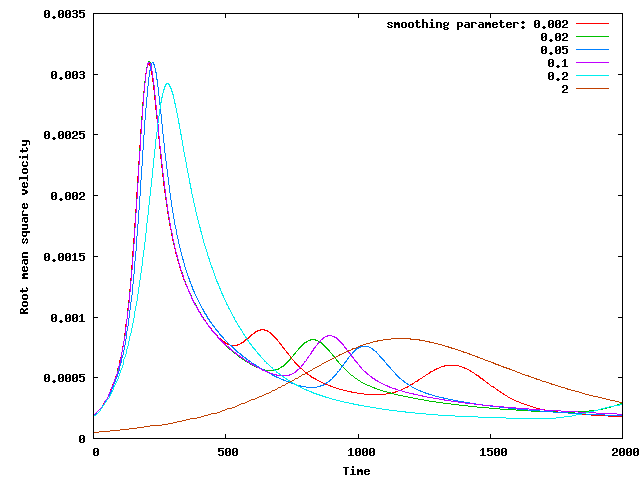
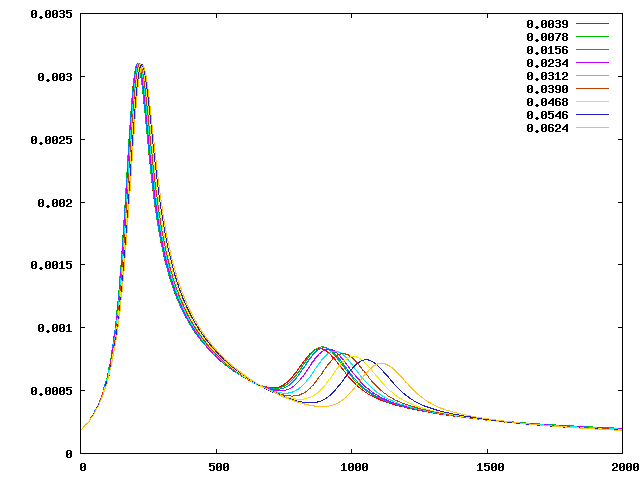
Van Keken manual update v2

diff --git a/doc/manual/manual.tex b/doc/manual/manual.tex
@@ -6153,7 +6153,7 @@ the current directory.
 \label{sec:benchmark-van-keken}
 
 \textit{This section is a co-production of Cedric Thieulot, Juliane Dannberg,
-Timo Heister and Wolfgang Bangerth.}
+Timo Heister and Wolfgang Bangerth with an extension to this benchmark provided by the Virginia Tech Dept. of Geosciences class Geodynamics and ASPECT co-taught by Scott King and D. Sarah Stamps.}
 
 One of the most widely used benchmarks for mantle convection codes is the
 isoviscous Rayleigh-Taylor case (``case 1a'') published by van Keken \textit{et
@@ -6313,39 +6313,57 @@ this half width parameter proportional to the mesh size and thereby get more
 accurate results. The point of the section was to demonstrate the reason
 for the lack of convergence.
 
-\textit{This section contributed by Grant Euen, Tahiry Rajaonarison, and Shangxin Liu as part of the Geodynamics and ASPECT class at Virginia Tech}\\
-
 In this section we extend the Van Keken cookbook following up the work previously completed by Cedric Thieulot, Juliane Dannberg,
-Timo Heister and Wolfgang Bangerth.
+Timo Heister and Wolfgang Bangerth.  \textit{This section contributed by Grant Euen, Tahiry Rajaonarison, and Shangxin Liu as part of the Geodynamics and ASPECT class at Virginia Tech.}  
 
-The smooth model allows for much better convergence of secondary plumes, although they are still more scattered than the primary plumes.  The convergence of the secondary and tertiary plumes can be better constrained by altering the smoothing parameter.  This term controls how much of the problem is smoothed over: as the parameter is increased, the smoothed boundary grows and vice versa.  As the smoothed boundary shrinks it becomes sharper until the original discontinuous behavior is revealed.  As it grows the two layers eventually become one large transitioning layer rather than two distinct layers and a boundary.  The overall effect is that the secondary and tertiary plumes rise at different times based on these conditions.  In general, as the smoothing parameter is decreased, the smoothed boundary shrinks, and the plumes rise more quickly.  As it is increased, the boundary grows, and the plumes rise more slowly.  This trend can be used to force a much more accurate convergence from the secondary plumes. Testing different sizes of the smoothing parameter using refinement degree 7 (128$\times$128 mesh size) produces the images shown in Fig.~\ref{fig:vk-5}.  We use refinement degree 7 because the root mean square velocity converges at greater refinement degree while keeping average runtime very low.
+As already mentioned above, using a half width parameter proportional to the mesh size allows for more accurate results.  We test the effect of the half width size of the smoothed discontinuity by changing the division by 0.02, the smoothing parameter, in the formula for the smoothed initial conditions into values proportional to the mesh size.  We use global refinement degree 7 because the root mean square velocity converges at greater refinement degree while keeping average runtime around 5 to 25 minutes.  These runtimes were produced by the BlueRidge cluster of the Advanced Research Computing (ARC) program at Virginia Tech.  BlueRidge is a 408-node Cray CS-300 cluster; each node outfitted with two octa-core Intel Sandy Bridge CPUs and 64 GB of memory.  A chart of average runtimes for global mesh refinements 5 through 10 on one node can be seen in Table~\ref{tab:runtime-table}.  For global refinement degree 7 (128$\times$128 mesh size), the size of the mesh is 0.0078 corresponding to a half width parameter of 0.0039.  The smooth model allows for much better convergence of the secondary plumes, although they are still more scattered than the primary plumes.
+
+\begin{table}[htb]
+	\center
+	\begin{tabular}{|c|cccccc|}
+		\hline
+		Global & & Number of Processors & & \\
+		Refinements & 4 & 8 & 12 & 16
+		\\ \hline
+		5 & 28.1 seconds & 19.8 seconds & 19.6 seconds & 17.1 seconds \\
+		6 & 3.07 minutes & 1.95 minutes & 1.49 minutes & 1.21 minutes \\
+		7 & 23.33 minutes & 13.92 minutes & 9.87 minutes & 7.33 minutes \\
+		8 & 3.08 hours & 1.83 hours & 1.30 hours & 56.33 minutes \\
+		9 & 1.03 days & 15.39 hours & 10.44 hours & 7.53 hours \\
+		10 & More than 6 days & More than 6 days & 3.39 days & 2.56 days \\ \hline
+	\end{tabular}
+	\caption{\it Average runtimes for the Van Keken Benchmark with smoothed initial conditions.  All of these tests used different numbers of processors on one node on the BlueRidge cluster of ARC at Virginia Tech.}
+	\label{tab:runtime-table}
+\end{table}
+
+This convergence is due to changing the smoothing parameter, which controls how much of the problem is smoothed over.  As the parameter is increased. the smoothed boundary grows and vice versa.  As the smoothed boundary shrinks it becomes sharper until the original discontinuous behavior is revealed.  As it grows, the two layers eventually become one large, transitioning layer rather than two distinct layers separated by a boundary.  These effects can be seen in Fig.~\ref{fig:vk-5}.  The overall effect is that the secondary rise is at different times based on these conditions.  In general, as the smoothing parameter is decreased, the smoothed boundary shrinks and the plumes rise more quickly.  As it is increased, the boundary grows and the plumes rise more slowly.  This trend can be used to force a more accurate convergence from the secondary plumes.
 
 \begin{figure}
 	\centering
 	\includegraphics[width=0.8\textwidth]{cookbooks/benchmarks/van-keken/smoothing-parameter.png}
-	\caption{\it Van Keken Benchmark (using smoothed out interface): compositional field at time t=0 using smoothing parameter size: a) 0.002, b) 0.02, c) 0.05, d) 0.1, e) 0.2, f) 2}
+	\caption{\it Van Keken Benchmark using smoothed out interface: compositional field at time t=0 using smoothing parameter size: a) 0.0039, b) 0.0078, c) 0.0156, d) 0.0234, e) 0.0312, f) 0.0390, g) 0.0468, h) 0.0546, i) 0.0624.}
 	\label{fig:vk-5}
 \end{figure}
 
-The evolution in time of the resulting compositional fields (Fig.~\ref{fig:vk-6}) shows that the first peak converges as the smoothed interface decreases. There is a good agreement for the first peak for smoothing parameters lower than 0.1. This is because the first diaper is slower for thicker interfaces and therefore appears at later times. No second peak seems to appear for smoothing parameters 0.2 and 2.  For these two cases the system behaves like three layer compositional fields.
+The evolution in time of the resulting compositional fields (Fig.~\ref{fig:vk-6}) shows that the first peak converges as the smoothed interface decreases. There is a good agreement for the first peak for all smoothing parameters.  As the width of the discontinuity increases, the second peak rises both later and more slowly.
 
 \begin{figure}
 	\centering
-	\includegraphics[width=0.8\textwidth]{cookbooks/benchmarks/van-keken/smoothing-parameter-velocity.png}
+	\includegraphics[width=0.75\textwidth]{cookbooks/benchmarks/van-keken/smoothing-parameter-velocity.png}
 	\caption{\it Van Keken benchmark with smoothed initial conditions for the compositional field using refinement degree 7 for different smoothing parameters.}
 	\label{fig:vk-6}
 \end{figure}
 
-Now let us further add a two-layer viscosity model to the domain. Let's assume the viscosity value of the upper heavier layer is $\eta_{t}$ and the viscosity value of the lower lighter layer is $\eta_{b}$. Based on the initial constant viscosity value 1$\times10^{2}$ Pa$\times$s, we set the viscosity proportion $\frac{\eta_{t}}{\eta_{b}}=0.1, 0.01$, meaning the viscosity of the upper, heavier layer is still 1$\times10^{2}$ Pa$\times$s, but the viscosity of the lower, lighter layer is now either 10 or 1 Pa$\times$s, respectively. The viscosity profiles of the discontinuous and smooth models are shown in Fig.~\ref{fig:vk-7}.
+Now let us further add a two-layer viscosity model to the domain. Let's assume the viscosity value of the upper heavier layer is $\eta_{t}$ and the viscosity value of the lower lighter layer is $\eta_{b}$. Based on the initial constant viscosity value 1$\times10^{2}$ Pa~s, we set the viscosity proportion $\frac{\eta_{t}}{\eta_{b}}=0.1, 0.01$, meaning the viscosity of the upper, heavier layer is still 1$\times10^{2}$ Pa~s, but the viscosity of the lower, lighter layer is now either 10 or 1 Pa~s, respectively. The viscosity profiles of the discontinuous and smooth models are shown in Fig.~\ref{fig:vk-7}.
 
 \begin{figure}
 	\centering
-	\includegraphics[width=0.8\textwidth]{cookbooks/benchmarks/van-keken/2viscosities-initial.png}
+	\includegraphics[width=1.0\textwidth]{cookbooks/benchmarks/van-keken/contrast_viscosity.png}
 	\caption{\it Van Keken benchmark using layers of different viscosities. The left image is the discontinuous case, while right is the smooth.  Both are shown at t=0.}
 	\label{fig:vk-7}
 \end{figure}
 
-Using the original input parameter file, running the cases in 8 initial refinement degree, and also adding the two-layer viscosity model, the temperature fields at the end time, t=2000 s, for both benchmark cases, discontinuous and smooth, and both viscosity proportions, 0.1 and 0.01, are shown in Fig.~\ref{fig:vk-8}.
+The end time, t=2000 s, for both benchmark cases, discontinuous and smooth, and both viscosity proportions, 0.1 and 0.01, are shown in Fig.~\ref{fig:vk-8}.  This was generated using the original input parameter file, running the cases in 8 global refinement degree, and also adding the two-layer viscosity model.
 
 \begin{figure}
 	\centering
@@ -6354,7 +6372,7 @@ Using the original input parameter file, running the cases in 8 initial refineme
 	\label{fig:vk-8}
 \end{figure}
 
-Compared to the results of the constant viscosity throughout the domain, the plumes obviously rise up faster when adding the two-layer viscosity model. Also, the larger the viscosity difference is, the earlier the plumes appear and the faster their ascent. To further reveal the effect of the two-layer viscosity model, we also plot the evolution of the fluids' average velocity over time, as shown in Fig.~\ref{fig:vk-9}.
+Compared to the results of the constant viscosity throughout the domain, the plumes rise faster when adding the two-layer viscosity model. Also, the larger the viscosity difference is, the earlier the plumes appear and the faster their ascent. To further reveal the effect of the two-layer viscosity model, we also plot the evolution of the fluids' average velocity over time, as shown in Fig.~\ref{fig:vk-9}.
 
 \begin{figure}
 	\centering
@@ -7438,6 +7456,7 @@ Here we use the ``Multicomponent'' material model, which allows us to easily set
 of compositional fields with different material properties. The first compositional field 
 corresponds to background mantle, the second corresponds to the rising blob, and the third 
 corresponds to the viscous lid.
+
 
 Furthermore, the results of this benchmark are sensitive to the mesh refenement and timestepping 
 parameters. Here we have nine refinement levels, and refine according to density and the 
